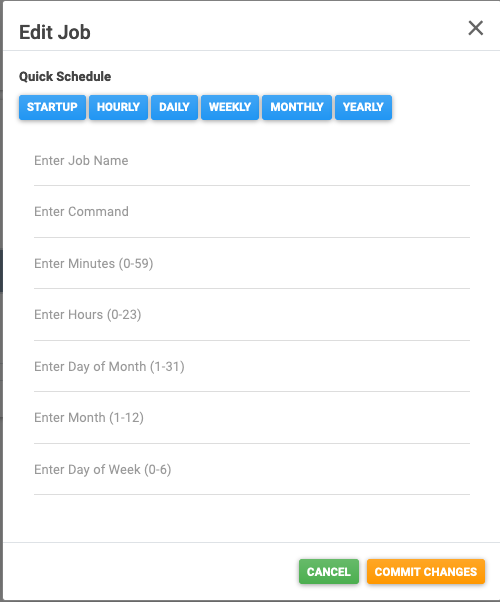
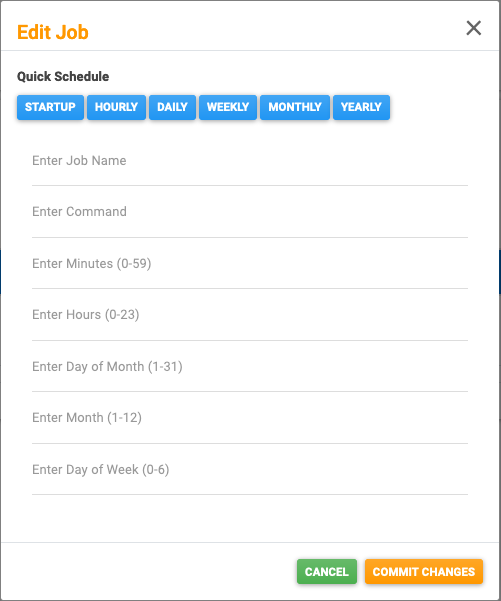
updated modal and readme

diff --git a/templates/cronjobs.html b/templates/cronjobs.html
@@ -166,7 +166,7 @@
       
         <!-- Modal Header -->
         <div class="modal-header" style="height: 50px;">
-          <h4 class="modal-title"><p>Edit Job</p></h4>
+          <h4 class="modal-title"><p class="text-warning">Edit Job</p></h4>
           <button type="button" class="close" data-dismiss="modal">&times;</button>
         </div>
 
